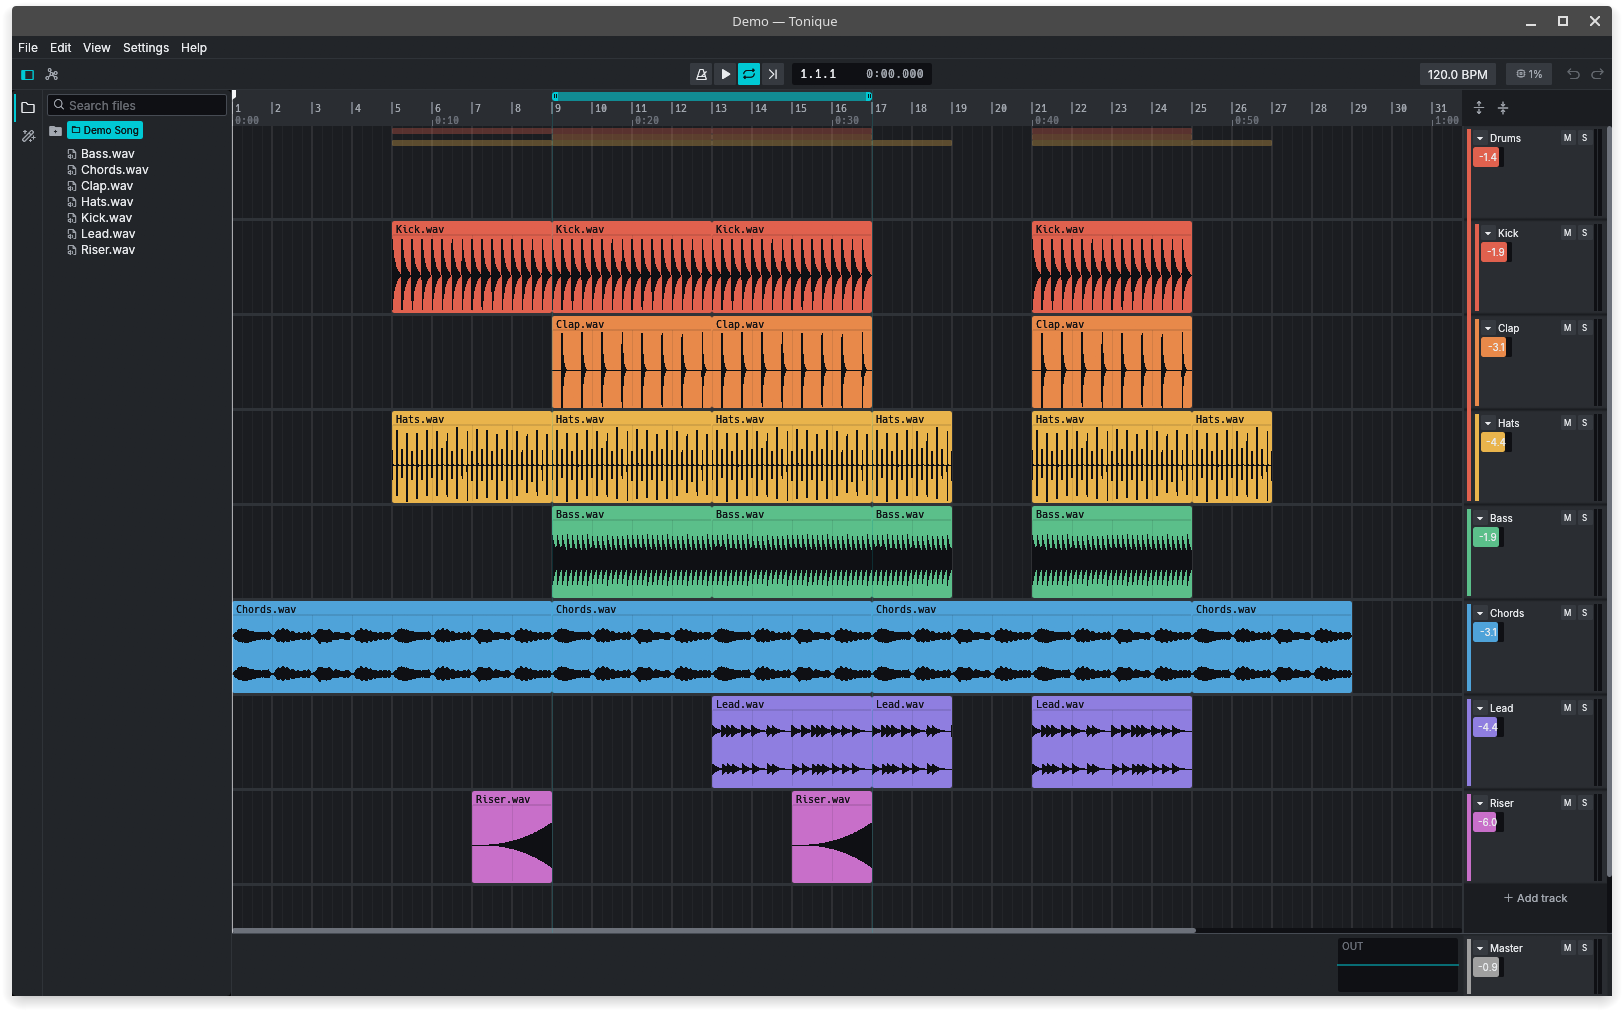
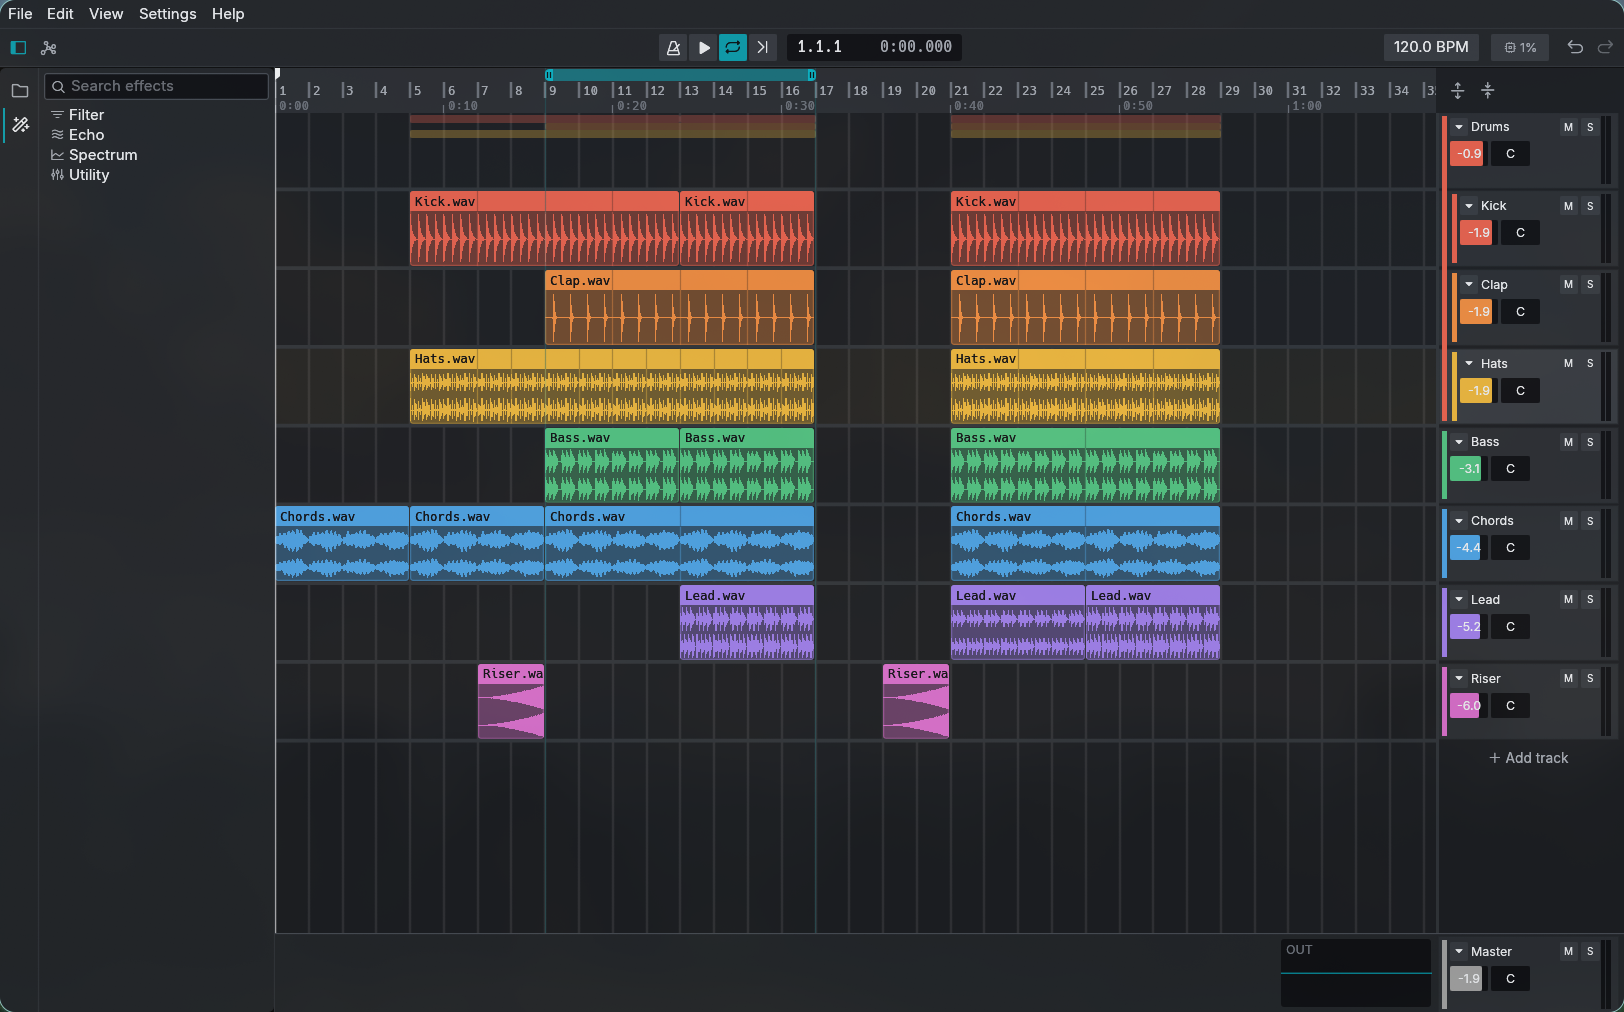
docs: a new README screenshot
The demo song on this branch's look: full-width clip headers, looping
clips with their restart lines, a drums group and the effects browser.

diff --git a/README.md b/README.md
@@ -2,7 +2,7 @@
 
 A rust based Digital Audio Workstation (DAW).
 
-![Tonique with a project open: tracks of colored audio clips on the timeline, a file browser and the mixer](images/screenshot.png)
+![Tonique with a project open: colored audio clips on the timeline, some looping, drums in a group, the effects browser and the mixer](images/screenshot.png)
 
 ## Download
 
